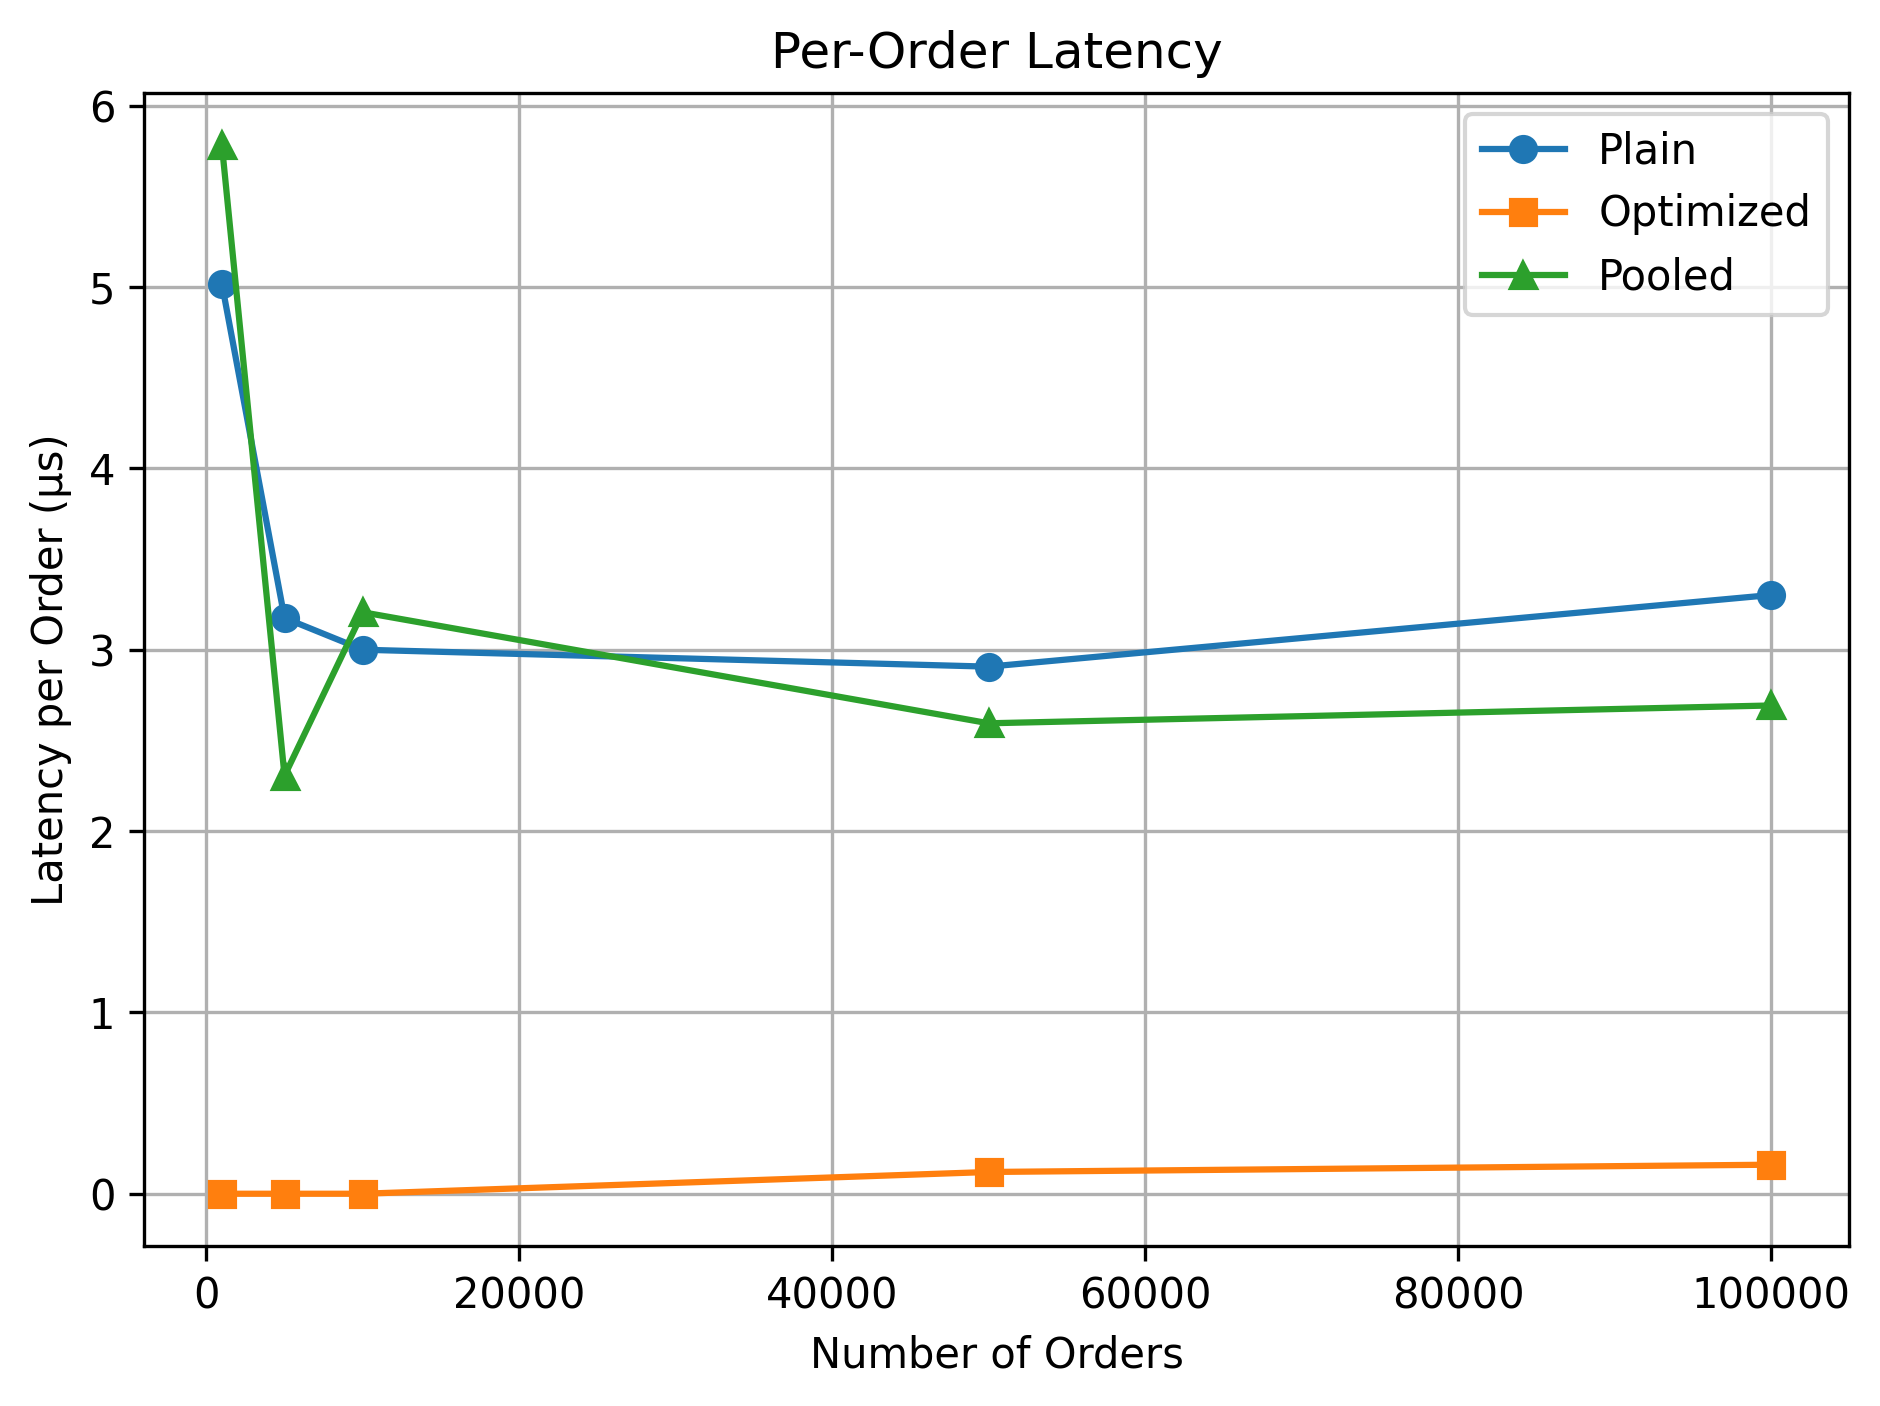
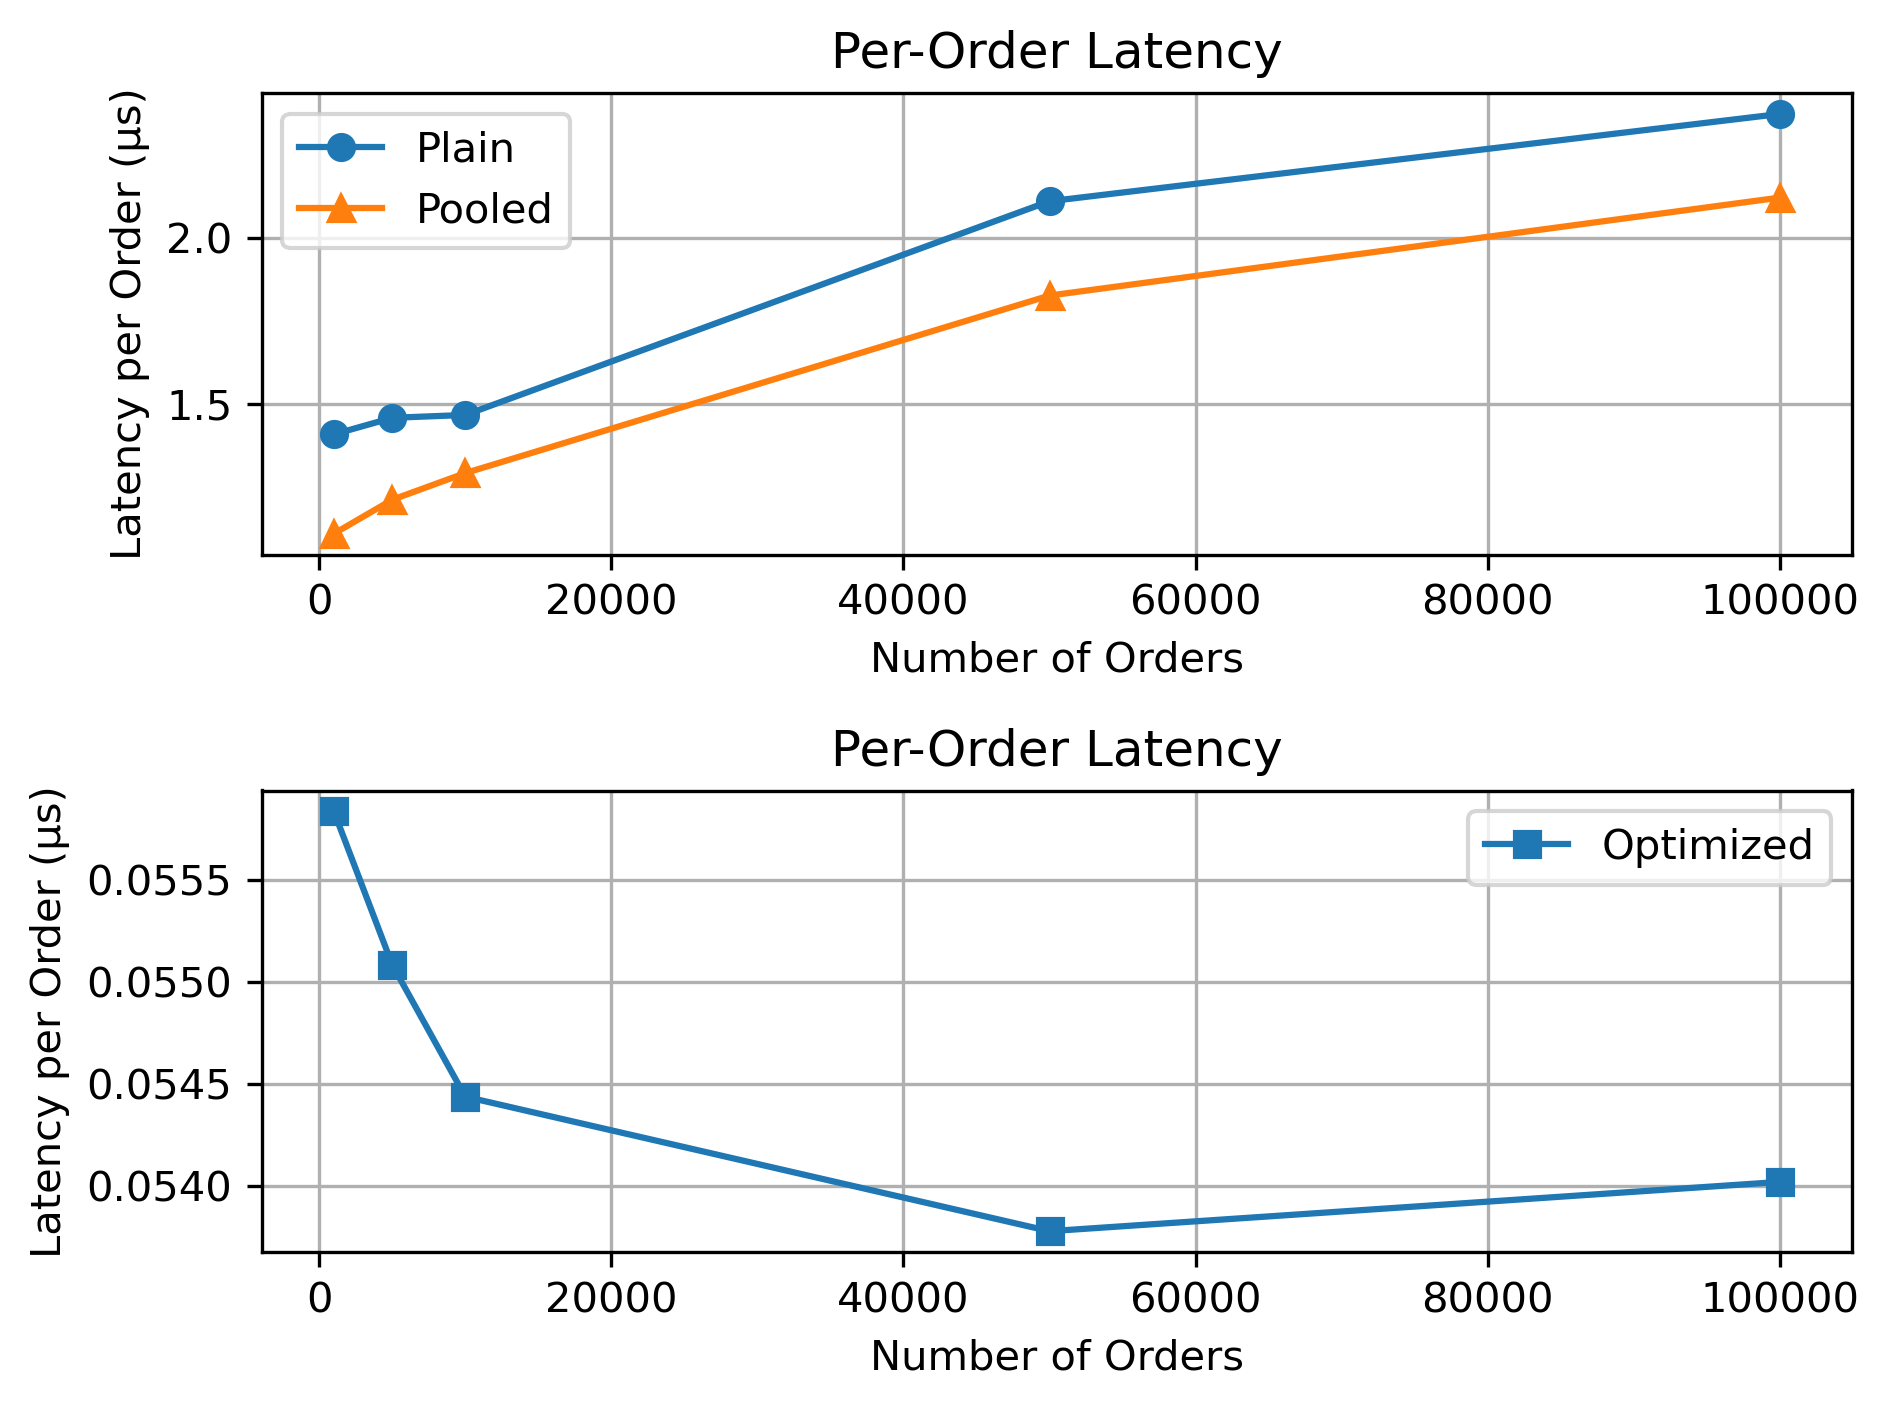
phase 5 edits

diff --git a/phase_5/src/benchmark.cpp b/phase_5/src/benchmark.cpp
@@ -8,14 +8,18 @@
 #include "OrderBook.h"
 #include "OptimizedOrderBook.h"
 #include "PooledOrderBook.h"
+#include <fmt/base.h>
+#include <fmt/os.h>
 
-void testAddOrder() {
+void testAddOrder()
+{
     OrderBook book;
     book.addOrder("ORD001", 50.10, 100, true);
     assert(book.orderLookup.count("ORD001") == 1);
 }
 
-void stressTest(OrderBook& book, int numOrders) {
+void stressTest(OrderBook &book, int numOrders)
+{
     std::mt19937 rng(std::random_device{}());
     std::uniform_real_distribution<double> p(50.0, 100.0);
     std::uniform_int_distribution<int> q(1, 500);
@@ -24,33 +28,41 @@ void stressTest(OrderBook& book, int numOrders) {
     assert(book.orderLookup.size() == static_cast<std::size_t>(numOrders));
 }
 
-void coreUnitTests() {
+void coreUnitTests()
+{
     OrderBook b;
     b.addOrder("A", 10.0, 1, true);
     b.modifyOrder("A", 11.0, 2);
     assert(b.orderLookup["A"].price == 11.0);
     b.deleteOrder("A");
     assert(b.orderLookup.empty());
+    testAddOrder();
 }
 
-void randomizedConsistencyTest(int nOps) {
+void randomizedConsistencyTest(int nOps)
+{
     OrderBook b;
     std::mt19937 g(42);
     std::uniform_real_distribution<double> p(50.0, 100.0);
     std::uniform_int_distribution<int> q(1, 500);
     std::uniform_int_distribution<int> op(0, 2);
-    for (int i = 0; i < nOps; ++i) {
+    for (int i = 0; i < nOps; ++i)
+    {
         int k = op(g);
         std::string id = "R" + std::to_string(i);
-        if (k == 0) b.addOrder(id, p(g), q(g), true);
-        else if (k == 1) b.modifyOrder(id, p(g), q(g));
-        else b.deleteOrder(id);
+        if (k == 0)
+            b.addOrder(id, p(g), q(g), true);
+        else if (k == 1)
+            b.modifyOrder(id, p(g), q(g));
+        else
+            b.deleteOrder(id);
     }
     assert(b.totalOrders() == b.orderLookup.size());
 }
 
-std::vector<Order> gen(int n) {
-    std::mt19937 g(std::random_device{}());
+std::vector<Order> gen(int n, std::optional<unsigned int> seed = std::nullopt)
+{
+    std::mt19937 g(seed ? *seed : std::random_device{}());
     std::uniform_real_distribution<double> p(50.0, 100.0);
     std::uniform_int_distribution<int> q(1, 500);
     std::vector<Order> v;
@@ -60,50 +72,132 @@ std::vector<Order> gen(int n) {
     return v;
 }
 
-double time_plain(const std::vector<Order>& v) {
+double time_plain(const std::vector<Order> &v)
+{
     OrderBook ob;
     auto t0 = std::chrono::high_resolution_clock::now();
-    for (auto& o : v) ob.addOrder(o.id, o.price, o.quantity, o.isBuy);
+    for (auto &o : v)
+        ob.addOrder(o.id, o.price, o.quantity, o.isBuy);
     return std::chrono::duration<double>(std::chrono::high_resolution_clock::now() - t0).count();
 }
 
-double time_opt(const std::vector<Order>& v) {
+double time_opt(const std::vector<Order> &v)
+{
     OptimizedOrderBook ob(v.size());
     auto t0 = std::chrono::high_resolution_clock::now();
-    ob.processOrdersUnrolled(const_cast<std::vector<Order>&>(v));
+    ob.processOrdersUnrolled(const_cast<std::vector<Order> &>(v));
     return std::chrono::duration<double>(std::chrono::high_resolution_clock::now() - t0).count();
 }
 
-double time_pool(const std::vector<Order>& v) {
+double time_pool(const std::vector<Order> &v)
+{
     PooledOrderBook pb(v.size());
     auto t0 = std::chrono::high_resolution_clock::now();
-    for (auto& o : v) pb.addOrder(o.id, o.price, o.quantity, o.isBuy);
+    for (auto &o : v)
+        pb.addOrder(o.id, o.price, o.quantity, o.isBuy);
     return std::chrono::duration<double>(std::chrono::high_resolution_clock::now() - t0).count();
 }
 
-int main(int argc, char** argv) {
-    if (argc > 1 && std::string(argv[1]) == "--unit") {
-        testAddOrder();
-        {
-            OrderBook tmp;
-            stressTest(tmp, 1000);
-        }
+inline std::pair<double, double> calc_stats(std::vector<double> vals) {
+    if (vals.empty()) {
+        return {0.0, 0.0}; // Return 0 for both mean and stddev if the input is empty
+    }
+
+    double avg = 0.0;
+    for (double t : vals) {
+        avg += t;
+    }
+    avg /= vals.size();
+
+    double variance = 0.0;
+    for (double t : vals) {
+        double diff = t - avg;
+        variance += diff * diff;
+    }
+    variance /= vals.size();
+
+    double stddev = std::sqrt(variance);
+    return {avg, stddev};
+}
+
+std::pair<double, double> multi_time_plain(int numOrders, int numRuns, std::optional<int> seed = std::nullopt)
+{
+    std::vector<double> times(numRuns);
+    for (int i = 0; i < numRuns; ++i)
+    {
+        auto v = gen(numOrders, seed);
+        double to = time_plain(v);
+        times[i] = to;
+    }
+    return calc_stats(times);
+}
+
+std::pair<double, double> multi_time_opt(int numOrders, int numRuns, std::optional<int> seed = std::nullopt)
+{
+    std::vector<double> times(numRuns);
+    for (int i = 0; i < numRuns; ++i)
+    {
+        auto v = gen(numOrders, seed);
+        double to = time_opt(v);
+        times[i] = to;
+    }
+    return calc_stats(times);
+}
+
+std::pair<double, double> multi_time_pool(int numOrders, int numRuns, std::optional<int> seed = std::nullopt)
+{
+    std::vector<double> times(numRuns);
+    for (int i = 0; i < numRuns; ++i)
+    {
+        auto v = gen(numOrders, seed);
+        double to = time_pool(v);
+        times[i] = to;
+    }
+    return calc_stats(times);
+}
+
+int main(int argc, char **argv)
+{
+    std::vector<int> vols{1000, 5000, 10000, 50000, 100000};
+
+    // Run unit tests
+    if (argc > 1 && std::string(argv[1]) == "--unit")
+    {   
         coreUnitTests();
-        randomizedConsistencyTest(10000);
-        std::cout << "unit tests passed\n";
+        fmt::print("Core unit tests passed!\n");
+
+        int numOrders = 1000;
+        while (numOrders <= 10000000) {
+            OrderBook tmp;
+            stressTest(tmp, numOrders);
+            fmt::print("Stress test passed with {} orders!\n", numOrders);
+            randomizedConsistencyTest(numOrders);
+            fmt::print("Randomized consistency test passed with {} orders!\n", numOrders);
+            numOrders = numOrders * 10;
+        }
         return 0;
     }
 
-    std::vector<int> vols{1000, 5000, 10000, 50000, 100000};
-    std::ofstream csv("../data/performance_results.csv");
-    csv << "orders,plain,optimized,pool\n";
-    for (int n : vols) {
-        auto v = gen(n);
-        double tp = time_plain(v);
-        double to = time_opt(v);
-        double tm = time_pool(v);
-        csv << n << ',' << tp << ',' << to << ',' << tm << '\n';
-        std::cout << n << " : plain " << tp << " s, opt " << to << " s, pool " << tm << " s\n";
+    // Run all implementations
+    auto csv = fmt::output_file("../data/performance_results.csv");
+    csv.print("orders,plain,optimized,pool\n");
+    int numRuns = 30;
+    int seed = 50;
+    for (int n : vols)
+    {
+        auto v = gen(n, seed);
+        auto [tp, tp_std] = multi_time_plain(n, numRuns);
+        auto [to, to_std] = multi_time_opt(n, numRuns);
+        auto [tm, tm_std] = multi_time_pool(n, numRuns);
+
+        // Print to std
+        fmt::print("{} : ", n);
+        fmt::print("plain {:.5f}+/-{:.0f}% s, ", tp, tp_std / tp / std::sqrt(numRuns) * 100);
+        fmt::print("opt {:.5f}+/-{:.0f}% s, ", to, to_std / to / std::sqrt(numRuns) * 100);
+        fmt::print("pool {:.5f}+/-{:.0f}% s\n", tm, tm_std / tm / std::sqrt(numRuns) * 100);
+
+        // Print to csv
+        csv.print("{}, {}, {}, {}\n", n, tp, to, tm);
     }
     return 0;
 }

diff --git a/phase_5/analysis/plot_performance.py b/phase_5/analysis/plot_performance.py
@@ -3,10 +3,11 @@ import matplotlib.pyplot as plt
 
 df = pd.read_csv('../data/performance_results.csv')
 plt.plot(df['orders'], df['plain'], marker='o', label='Plain')
-plt.plot(df['orders'], df['optimized'], marker='s', label='Optimized')
 plt.plot(df['orders'], df['pool'], marker='^', label='Pooled')
+plt.plot(df['orders'], df['optimized'], marker='s', label='Optimized')
 plt.xlabel('Number of Orders')
-plt.ylabel('Execution Time (seconds)')
+plt.ylabel('Execution Time (seconds, log)')
+plt.yscale('log')
 plt.title('HFT Order Book Performance')
 plt.legend()
 plt.grid(True)
@@ -14,13 +15,24 @@ plt.tight_layout()
 plt.savefig('../analysis/performance_chart.png', dpi=300, bbox_inches='tight')
 plt.close()
 
+# Plot latency
 lat = df.copy()
 lat['plain']     = lat['plain']     / lat['orders'] * 1e6
 lat['optimized'] = lat['optimized'] / lat['orders'] * 1e6
 lat['pool']      = lat['pool']      / lat['orders'] * 1e6
+
+plt.subplot(2,1,1)
 plt.plot(lat['orders'], lat['plain'], marker='o', label='Plain')
-plt.plot(lat['orders'], lat['optimized'], marker='s', label='Optimized')
 plt.plot(lat['orders'], lat['pool'], marker='^', label='Pooled')
+plt.xlabel('Number of Orders')
+plt.ylabel('Latency per Order (µs)')
+plt.title('Per-Order Latency')
+plt.legend()
+plt.grid(True)
+plt.tight_layout()
+
+plt.subplot(2,1,2)
+plt.plot(lat['orders'], lat['optimized'], marker='s', label='Optimized')
 plt.xlabel('Number of Orders')
 plt.ylabel('Latency per Order (µs)')
 plt.title('Per-Order Latency')

diff --git a/phase_5/README.md b/phase_5/README.md
@@ -1,4 +1,28 @@
-## 
+## Phase 5
 Group 7
 Scott Turro Kyle Parran
 
+## Performance Results
+![analysis/performance_chart.png](analysis/performance_chart.png)
+
+Our optimized order gave much better results. By pre-reserving memory and loop unrolling we had a significant performance increase. 
+
+## Latency Results
+![analysis/per_order_latency.png](analysis/per_order_latency.png)
+
+The latency in the plain and pooled version increases with the number of orders. Our optimized version has a much lower latency. At first the latency gets smaller with the number of orders, but then it increases again. This reflects the amount of overhead which does not scale with the number of orders.
+
+## Unit Test Results
+```
+Core unit tests passed!
+Stress test passed with 1000 orders!
+Randomized consistency test passed with 1000 orders!
+Stress test passed with 10000 orders!
+Randomized consistency test passed with 10000 orders!
+Stress test passed with 100000 orders!
+Randomized consistency test passed with 100000 orders!
+Stress test passed with 1000000 orders!
+Randomized consistency test passed with 1000000 orders!
+Stress test passed with 10000000 orders!
+Randomized consistency test passed with 10000000 orders!
+```
